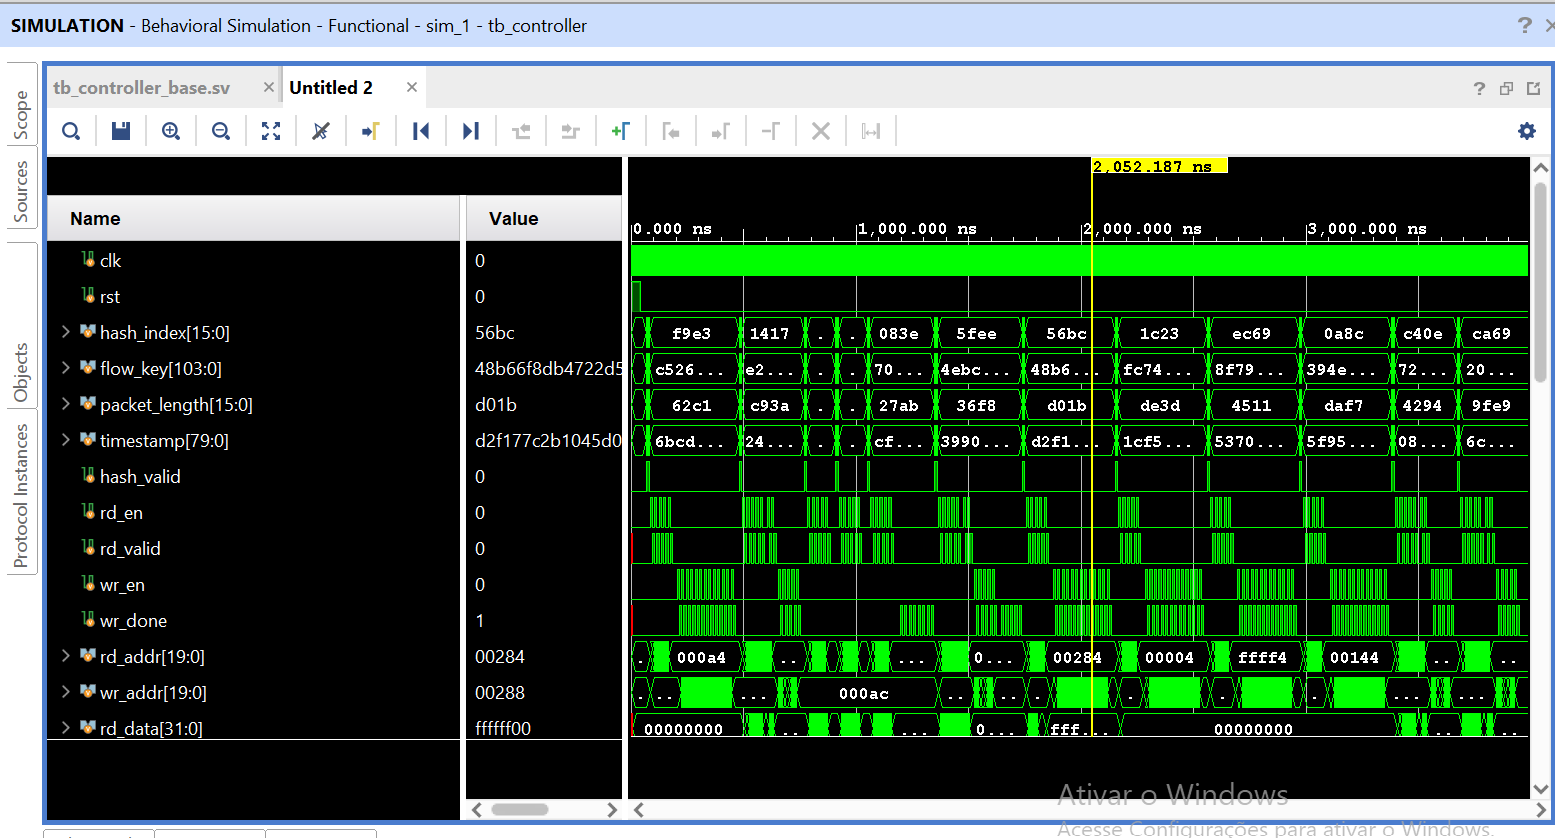
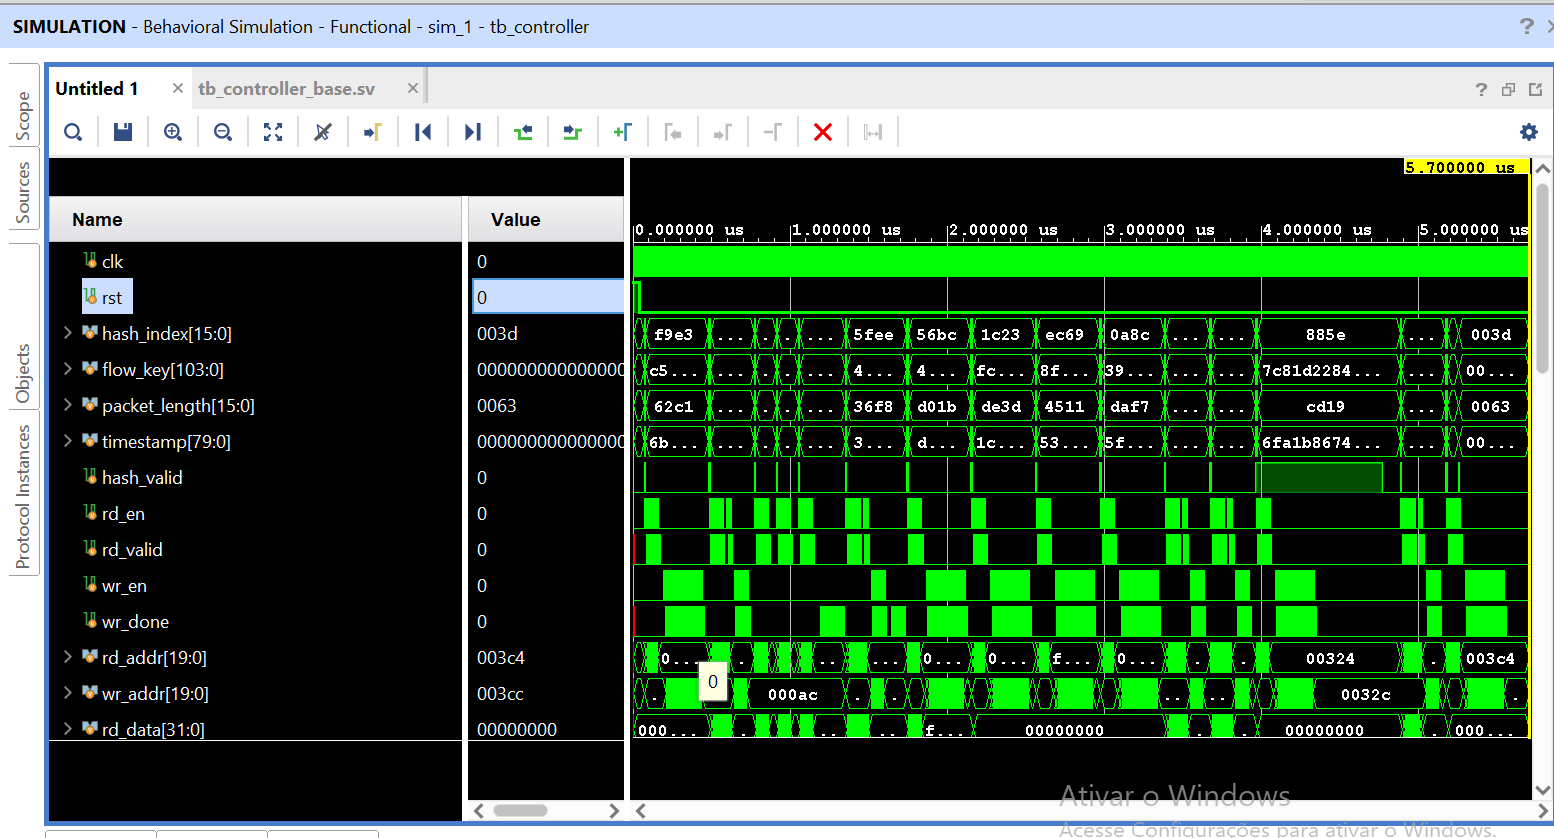
Refactor code structure for improved readability and maintainability

diff --git a/Especificação/Extracao de Features/Controller_recepcao_documentation.md b/Especificação/Extracao de Features/Controller_recepcao_documentation.md
@@ -6,7 +6,7 @@
 
 Nesta etapa, o Controller:
 
-- Recebe os metadados do pacote (`hash_valid` + dados), captura-os e gera o sinal interno `start`.
+- Recebe os metadados do pacote pelo protocolo `valid` (sem `ready`), captura os dados e sinaliza `start` para iniciar a FSM.
 - Consulta a Flow Table lendo `valid` e `flow_key` (palavras W0–W4).
 - Classifica o resultado em **MISS**, **HIT** ou **COLLISION**.
 - Executa a operação correspondente: cria o fluxo (MISS), atualiza os contadores (HIT) ou preserva a entrada (COLLISION).
@@ -18,7 +18,7 @@ A varredura de finalização e a interface com o Flow Finalizer não fazem parte
 | Sinal | Direção | Largura | Descrição |
 |---|---|---:|---|
 | `clk` | Entrada | 1 bit | Clock do sistema. |
-| `rst` | Entrada | 1 bit | Reset assíncrono, ativo em nível alto. |
+| `rst` | Entrada | 1 bit | Reset síncrono, ativo em nível alto. |
 | `hash_index` | Entrada | 16 bits | Índice da entrada na Flow Table. |
 | `flow_key` | Entrada | 104 bits | Chave do fluxo. |
 | `packet_length` | Entrada | 16 bits | Tamanho do pacote em bytes. |
@@ -35,38 +35,43 @@ A varredura de finalização e a interface com o Flow Finalizer não fazem parte
 
 ### 1.2. Recepção do barramento
 
-O protocolo entre módulos usa **somente `valid`, sem `ready`**. Quando `hash_valid = 1`, o Controller captura os dados e pulsa `start` por 1 ciclo. Esse bloco é separado da FSM e segue o padrão acordado:
+O protocolo entre módulos usa **somente `valid`, sem `ready`**, seguindo o padrão do emissor/receptor (captura por nível):
+
+- A captura só acontece no estado `IDLE`, quando `hash_valid = 1`.
+- Depois da operação, o Controller aguarda `hash_valid` voltar a 0 (estado `WAIT_VALID_LOW`) antes de aceitar uma nova leitura do barramento.
+
+O sinal `start` é um pulso de 1 ciclo, gerado apenas em `IDLE`:
 
 ```systemverilog
-always_ff @(posedge clk or posedge rst) begin
+wire start = (state == IDLE) && hash_valid;
+
+always_ff @(posedge clk) begin
     if (rst) begin
-        hash_index_reg    <= '0;
+        base_addr         <= '0;
         flow_key_reg      <= '0;
         packet_length_reg <= '0;
         timestamp_reg     <= '0;
-        start             <= 1'b0;
-    end else begin
-        if (hash_valid) begin
-            hash_index_reg    <= hash_index;
-            flow_key_reg      <= flow_key;
-            packet_length_reg <= packet_length;
-            timestamp_reg     <= timestamp;
-            start             <= 1'b1;
-        end else if (start) begin
-            start <= 1'b0;
-        end
+    end else if (start) begin
+        base_addr         <= {hash_index, 4'b0000};   // hash_index x 16
+        flow_key_reg      <= flow_key;
+        packet_length_reg <= packet_length;
+        timestamp_reg     <= timestamp;
     end
 end
 ```
 
-**Premissa de integração:** como não há `ready`, o Data Mover não deve enviar um novo `hash_valid` enquanto o Controller estiver ocupado. Em simulação, um `$error` é emitido se isso ocorrer.
+**Consequências do protocolo:**
+
+- Um `hash_valid` mantido em 1 por vários ciclos gera **uma única** operação.
+- Um `hash_valid` que chega com o Controller ocupado **não é capturado** (o pacote é ignorado).
+- Como não há `ready`, o Data Mover deve respeitar essa regra: só enviar um novo pacote com o Controller em `IDLE`.
 
 ### 1.3. Endereçamento
 
 Cada entrada tem 16 palavras de 32 bits. O endereço de 20 bits é formado por:
 
 ```systemverilog
-rd_addr = {hash_index_reg, word_index};   // base_addr = hash_index << 4
+rd_addr = {base_addr[19:4], word_index};   // base_addr = hash_index << 4
 ```
 
 Exemplo: `hash_index = 5` → entrada nos endereços 80 a 95.
@@ -75,13 +80,16 @@ Exemplo: `hash_index = 5` → entrada nos endereços 80 a 95.
 
 | Estado | Função | Próximo estado |
 |---|---|---|
-| `IDLE` | Aguarda `start`; calcula `base_addr` e limpa `flow_entry`. | `LOOKUP_REQ` |
+| `IDLE` | Aguarda `start` (captura os dados); limpa `flow_entry`. | `LOOKUP_REQ` |
 | `LOOKUP_REQ` | Ativa `rd_en` com o endereço da palavra. | `LOOKUP_WAIT` |
 | `LOOKUP_WAIT` | Aguarda `rd_valid`; guarda `valid` e `flow_key`. | `LOOKUP_REQ` (até W4) ou `CLASSIFY` |
-| `CLASSIFY` | Decide MISS, HIT ou COLLISION. | `PREPARE_WRITE`, `HIT_READ_REQ` ou `IDLE` |
+| `CLASSIFY` | Decide MISS, HIT ou COLLISION. | `PREPARE_WRITE`, `HIT_READ_REQ` ou `WAIT_VALID_LOW` |
 | `HIT_READ_REQ` / `HIT_READ_WAIT` | Lê W5 (`packet_count`) e W6 (`byte_count`). | `PREPARE_WRITE` |
 | `PREPARE_WRITE` | Calcula os novos valores e define a primeira palavra a escrever. | `WRITE_REQ` |
-| `WRITE_REQ` / `WRITE_WAIT` | Escreve uma palavra e aguarda `wr_done`. | `WRITE_REQ` ou `IDLE` (após W12) |
+| `WRITE_REQ` / `WRITE_WAIT` | Escreve uma palavra e aguarda `wr_done`. | `WRITE_REQ` ou `WAIT_VALID_LOW` (após W12) |
+| `WAIT_VALID_LOW` | Aguarda `hash_valid = 0`. | `IDLE` |
+
+O pulso de `lookup_done` é emitido ao entrar em `WAIT_VALID_LOW`.
 
 Correspondência com a especificação: FETCH = `LOOKUP_*`, CHECK = `CLASSIFY`, INSERT = escritas de MISS, UPDATE = leituras e escritas de HIT.
 
@@ -121,19 +129,19 @@ Classificação no estado `CLASSIFY`:
 
 ### Objetivo
 
-Verificar a recepção, o lookup e a classificação com o Controller conectado à **Flow Table real** (`flow_table.sv`).
+Verificar a recepção, o lookup e a classificação com o Controller conectado à **Flow Table real** (`flow_table.sv`). Este é um teste de **integração**.
 
 ### 2.1. Configuração
 
 - A Flow Table é instanciada com latência de 1 ciclo para leitura e escrita, conforme o contrato de interface.
 - A memória é inicializada em zero na declaração (todos os `valid` começam em 0).
-- Os casos que precisam de conteúdo prévio são pré-carregados pela porta de escrita da Flow Table, por meio de um mux no testbench.
+- Os casos que precisam de conteúdo prévio são pré-carregados pela porta de escrita da Flow Table, por meio de um mux no testbench (`tb_wr_*`).
 - Logo após `hash_valid`, as entradas são embaralhadas, para provar que o Controller capturou os dados no ciclo correto.
 - Clock de 100 MHz (período de 10 ns).
 
 ### 2.2. Verificações automáticas
 
-- `start` dura exatamente 1 ciclo.
+- `start` dura exatamente 1 ciclo, e cada operação gera exatamente 1 pulso de `start` e 1 de `lookup_done`.
 - Todo endereço de leitura e escrita pertence à entrada consultada (`addr[19:4] = hash_index`).
 - Nenhuma leitura retorna valor desconhecido (`X`), o que detectaria memória não inicializada.
 - Cada cenário confere `lookup_result`, o número de leituras, o número de escritas e o conteúdo final da memória.
@@ -151,28 +159,35 @@ Verificar a recepção, o lookup e a classificação com o Controller conectado 
 | 7 | W0 = `FFFFFFFE` (`valid` = 0) | MISS | 5 / 13 | PASSOU |
 | 8 | `hash_index` = 0 e 65535 | MISS | 5 / 13 | PASSOU |
 | 9 | MISS + HIT + HIT em sequência | `packet_count` = 3, bytes = 30 | 5/13, 7/5, 7/5 | PASSOU |
+| 10 | `hash_valid` mantido em 1 por 80 ciclos | Uma única operação (MISS), dados do primeiro ciclo | 5 / 13 | PASSOU |
+| 11 | Nova captura após `valid` voltar a 0 | HIT na mesma entrada | 7 / 5 | PASSOU |
+| 12 | Pacote enviado com o Controller ocupado | Pacote ignorado; entrada dele intacta | 5 / 13 (só o 1º pacote) | PASSOU |
 
-Resultado final: `TODOS OS TESTES PASSARAM!`, com `$finish` em 3980 ns e `errors = 0`.
+Resultado final: **`TODOS OS TESTES PASSARAM!`**, com `$finish` em 5700 ns e `errors = 0`.
 
 ---
 
 ## 3. Análise da forma de onda
 
-![Sinais de entrada e interface com a Flow Table](../../docs/images/Controller_recepcao1.png)
+![Entradas, leituras e escritas](../../docs/images/Controller_recepcao1.png)
 
-**Entrada e acessos à memória:** cada pulso de `hash_valid` é seguido por leituras (`rd_en`, `rd_valid`) e, nos casos de MISS e HIT, por escritas (`wr_en`, `wr_done`). Os endereços acompanham o `hash_index` de cada pacote.
+**Entradas e acessos à memória:** cada `hash_valid` é seguido por leituras (`rd_en`, `rd_valid`) e, nos casos de MISS e HIT, por escritas (`wr_en`, `wr_done`). Perto de 4 µs, `hash_valid` permanece em 1 por um intervalo longo enquanto `hash_index`, `flow_key`, `packet_length` e `timestamp` mudam. O Controller não reage a essas mudanças e executa uma única operação com os dados capturados no primeiro ciclo (cenário 10).
 
 ![lookup_result, lookup_done e contadores](../../docs/images/Controller_recepcao2.png)
 
-**Classificação:** `lookup_result` assume 1 (MISS), 2 (HIT) e 3 (COLLISION), com um pulso de `lookup_done` ao final de cada operação. `read_count` e `write_count` acompanham as operações e `errors` permanece em zero. `cur_idx` mostra a entrada acessada em cada cenário.
+**Classificação e contadores:** `lookup_result` assume 1 (MISS), 2 (HIT) e 3 (COLLISION), com um pulso de `lookup_done` ao final de cada operação. `read_count` e `write_count` acompanham as operações, `start_count` e `done_count` ficam em 1 ao fim de cada cenário, e `errors` permanece em zero. `cur_idx` mostra a entrada acessada em cada cenário.
 
-![Sinais auxiliares do testbench](../../docs/images/Controller_recepcao3.png)
+![Monitores e pré-carga da memória](../../docs/images/Controller_recepcao3.png)
 
-**Apoio do testbench:** pré-carga da memória pela porta `tb_wr_*`, pulso de `start` de 1 ciclo (`start_q`) e as constantes dos cenários (`KEY_A`, `KEY_B`, `TS1`, `TS2`).
+**Monitores e pré-carga:** `start_q` mostra os pulsos de 1 ciclo de `start`; `tb_wr_en` e `tb_wr_addr` mostram a pré-carga da memória feita pelo testbench antes dos cenários 6 e 7.
 
-![Console da simulação](../../docs/images/Controller_recepcao4.png)
+![Mux de escrita e constantes do testbench](../../docs/images/Controller_recepcao4.png)
 
-**Console:** todos os cenários com `PASSOU` e a mensagem final de aprovação.
+**Mux de escrita e constantes:** `ft_wr_en`, `ft_wr_addr` e `ft_wr_data` são as escritas que chegam à Flow Table (Controller e pré-carga do testbench). Também aparecem as constantes dos cenários (`KEY_A`, `KEY_B`, `TS1`, `TS2`).
+
+![Console da simulação](../../docs/images/Controller_recepcao5.png)
+
+**Console:** cenários 4 a 12 com `PASSOU` (os três primeiros saem da área visível), mensagem final `TODOS OS TESTES PASSARAM!` e `$finish` em 5700 ns.
 
 ---
 
@@ -180,25 +195,29 @@ Resultado final: `TODOS OS TESTES PASSARAM!`, com `$finish` em 3980 ns e `errors
 
 | Requisito | Evidência | Status |
 |---|---|---|
-| Receber metadados válidos | `hash_valid` provoca a captura dos dados | Aprovado |
-| Gerar `start` | Pulso de 1 ciclo após `hash_valid` | Aprovado |
+| Receber metadados válidos | `hash_valid` em `IDLE` provoca a captura dos dados | Aprovado |
+| Gerar `start` | Pulso de 1 ciclo; 1 por operação | Aprovado |
+| Aceitar nova leitura só após `valid` em 0 | Cenários 10 e 11 | Aprovado |
+| Ignorar `hash_valid` com o Controller ocupado | Cenário 12 | Aprovado |
 | Lookup conectado à Flow Table | Leitura de W0–W4 com `rd_en` / `rd_valid` | Aprovado |
 | Comparar 104 bits da chave | Cenários 4, 5 e 6 | Aprovado |
 | Usar só o bit 0 de `valid` | Cenários 6 e 7 | Aprovado |
-| Classificar MISS | Cenários 1, 7, 8 e 9 | Aprovado |
-| Classificar HIT | Cenários 2, 6 e 9 | Aprovado |
+| Classificar MISS | Cenários 1, 7, 8, 9 e 10 | Aprovado |
+| Classificar HIT | Cenários 2, 6, 9 e 11 | Aprovado |
 | Classificar COLLISION | Cenários 3, 4 e 5 (nenhuma escrita) | Aprovado |
 | Endereços dentro da entrada | Monitor de endereços, incluindo `hash_index` 0 e 65535 | Aprovado |
 | Operações consecutivas | Cenário 9 | Aprovado |
 
 ---
 
-## 5. Limitações e próximos passos
+## 5. Alterações de contrato a alinhar
 
-- **Sem `ready`:** o Controller não sinaliza disponibilidade. A garantia de que não chega um novo `hash_valid` enquanto ele está ocupado é do Data Mover e precisa ser mantida na integração.
-- **Finalização:** a varredura e o envio ao Flow Finalizer ainda não foram implementados.
-- **`flow_entry` com 416 bits:** necessário para carregar W0–W12, mas a figura da arquitetura mostra 384 bits. Alinhar com o Flow Finalizer.
+- **`flow_entry`:** o Controller monta W0–W12 (13 palavras × 32 bits = **416 bits**). A figura da arquitetura mostra **384 bits** (12 palavras), o que deixa o W12 (`last_timestamp[79:64]`) de fora. Definir com o Flow Finalizer entre ampliar para 416 bits ou usar um formato compactado.
+- **`hash_valid` com o Controller ocupado:** pelo protocolo sem `ready`, o pacote é ignorado. Confirmar com o Data Mover que o espaçamento entre pacotes respeita essa regra.
+
+## 6. Limitações e próximos passos
+
+- **Teste unitário:** o testbench atual é de integração (Controller + Flow Table real). Falta um teste unitário com modelo simples de memória, para separar erros internos do Controller de erros de integração.
+- **Finalização:** a varredura e o envio ao Flow Finalizer ainda não foram implementados (`fin_valid = 0`, `fin_done` sem uso).
 - **`flow_entry` no HIT:** as palavras W7–W9 (`first_timestamp`) não são lidas no HIT, então não estão no `flow_entry` nesse caso. Se o Finalizer precisar desse campo, será necessário lê-lo ou ler a entrada na própria varredura.
-- **Largura do endereço:** o Controller usa 20 bits, conforme o contrato da Flow Table. A figura mostra 21 bits e precisa ser atualizada.
-- **Nome do reset:** o Controller usa `rst` (assíncrono, como no padrão acordado); a figura usa `reset`. Padronizar.
 - **Latência da memória:** os testes usaram `rd_valid` com 1 ciclo. O Controller espera `rd_valid`, então deve tolerar latências maiores, mas isso ainda não foi simulado.
